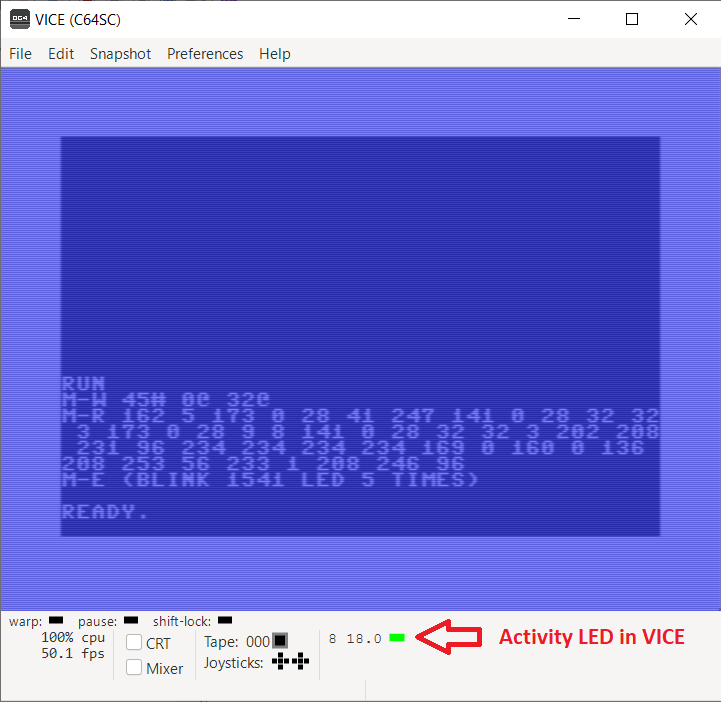
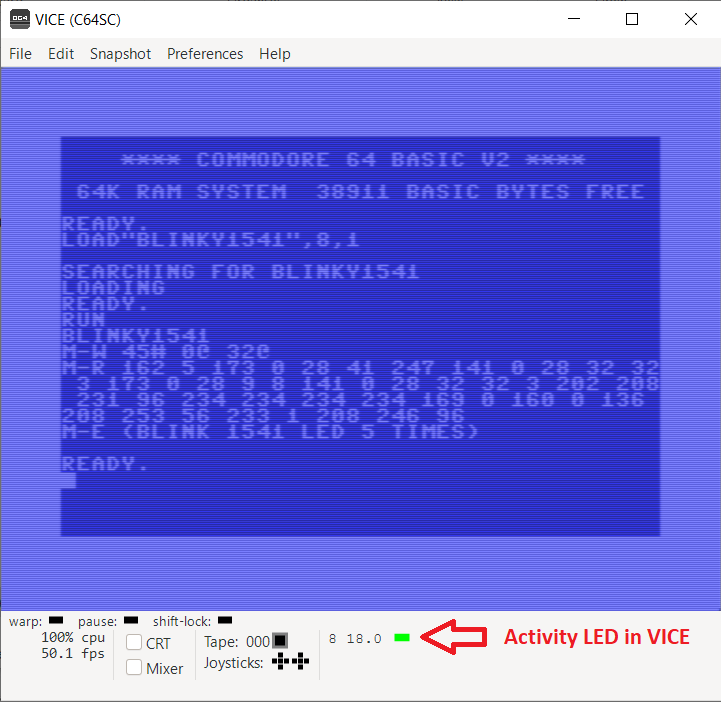
added d64

diff --git a/blinky1541/readme.md b/blinky1541/readme.md
@@ -12,7 +12,8 @@ The Blinky program blinks an LED connected to the CPU.
 
 Surely the Commodore 64 falls into the first category (`10 PRINT "HELLO, WORLD!"`).
 For sure. However, in this article, we are going to program the _Commodore 1541 disk drive_. 
-It has a 6502, RAM, 6522 VIAs (general purpose I/O chips) and even an LED connected to a VIA. We are going to blink that LED.
+It has a 6502, RAM, two 6522 VIAs (general purpose I/O chips) and even 
+an LED connected to one of the VIAs. We are going to blink that LED.
 
 
 ## Blinky program
@@ -23,22 +24,29 @@ The next section is about how to get that program on the 1541 and run it there.
 
 ### LED control
 
-We want to write a Blinky for the 1541 disk drive.
-We need to know _how to control the activity LED_.
+For Blinky, we need to know _how to control the activity LED_ of the 1541 drive.
 
 On Zimmers we find the 
 [schematics of the 1541-ii](https://www.zimmers.net/anonftp/pub/cbm/schematics/drives/new/1541/1541-II.340503.gif). 
-Here is an extract.
+Here is an excerpt.
 
 ![LED connection](schematics-actled.png)
 
 - On the 1541-ii the activity LED is _green_ (`grun`) and the power LED is _red_ (`rot`), 
   which is the reverse of the original 1541.
 - The green LED is connected with its anode to 5V, so it is _low active_.
-- The cathode is connected to port `PB3` of the VIA 6522 (U8).
+- The cathode is connected to port `PB3` of the VIA 2 (U8).
 
-Also on Zimmers we find the [memory map](https://www.zimmers.net/anonftp/pub/cbm/maps/C1541ram.txt) of the disk drive.
-Here is an extract
+At first, I was a bit puzzled why _two_ VIAs are needed, but I was underestimating the I/O needed:
+reading and writing with the magnetic head, controlling the stepper motor for the head,
+enabling the spindle (main disk motor), controlling the activity LED, sensing the 
+write protect tab, configuring the drive address (8, 9, 10, 11), and writing and reading 
+all IEC lines.
+
+We now know e need PB3 on VIA 2, what does that mean for the software side (addresses).
+Also on Zimmers we find the 
+[memory map](https://www.zimmers.net/anonftp/pub/cbm/maps/C1541ram.txt) of the disk drive.
+Here is an excerpt.
 
 ```
 VIA 2: 6522, port for motor and read/write head control
@@ -65,8 +73,9 @@ $1C03	CA, data direction port A
 - At address $1C00 we find the `control port B`, i.e. the value for the pins of port B.
 - The table confirms that the `ACT - LED` is PB3.
 
-> Assuming that the initialization of the drive sets the data direction register such that PB3 is output,
-> the only thing our Blinky program has to do is _clear_ bit 3 to enable the activity LED or _set_ bit 3 to disable the LED.
+> **Conclusion** Assuming that the initialization of the drive sets the data direction 
+> register such that PB3 is _output_, the only thing our Blinky program has to do 
+> is _clear_ bit 3 to enable the activity LED, or _set_ bit 3 to disable the LED.
 
 
 ### Program location 
@@ -95,16 +104,17 @@ we find some other interesting addresses:
 - More specificaslly, we see that the command buffer is $29 or 42 bytes.
 - Pages 3, 4, 5, 6, and 7 ar sector buffers.
 
-> We will use page 3 (Buffer 0) to store our program.
+> **Conclusion**  We will use page 3 (buffer 0, 0300 and up) to store the Blinky program.
 
 
 ### The code
 
-Now that we know we need to manipulate bit 3 in 1c00, and 
-we decided the store our program in page 3 (0300), we are ready to 
-write our Blinky program.
+Now that we know bit 3 in 1c00 controls the LED, and 
+we decided the store our program in page 3 (0300), 
+we are ready to write our Blinky program.
 
-We hand assemble using Maaswerk's [6502 instructions](https://www.masswerk.at/6502/6502_instruction_set.html).
+We hand assemble using Maaswerk's 
+[6502 instructions](https://www.masswerk.at/6502/6502_instruction_set.html).
 
 ```
 0300 | 162,5     | ldx #$5
@@ -133,10 +143,11 @@ We hand assemble using Maaswerk's [6502 instructions](https://www.masswerk.at/65
 032c | 96        | rts
 ```
 
-- At 0320 we have a wait routine. It keeps register X unmodified.
-- The wait takes about 0.33 seconds.
+- At 0320 we have a wait routine. It leaves register X unmodified.
+ The wait takes about 0.33 seconds.
 - The main routine starts at 0300.
-- Register X is used to loop 5 times on/off. it is set st 0300 and decremented at 0318 and looped at 0319.
+- Register X is used to iterate 5 times an on/off cycle. 
+  X is initialized at 0300, decremented at 0318 and looped at 0319.
 - At 0302-030a the activity LED is switched on (by clearing bit 3 of 1c00) for 0.33s.
 - At 030d-0315 the activity LED is switched off (by setting bit 3 of 1c00) for 0.33s.
 
@@ -144,7 +155,7 @@ We hand assemble using Maaswerk's [6502 instructions](https://www.masswerk.at/65
 ## Upload and execute
 
 With our first task completed (writing the Blinky program) this section
-focusses on how to get the program on the 1541 and run it there.
+focusses on how to load the program onto the 1541 and run it there.
 We do that via the command channel.
 
 
@@ -153,11 +164,13 @@ We do that via the command channel.
 Recall that we can _send commands_ to a 1541.
 We do that by opening a byte pipe (file handle), any "slot" will do, 
 in the example below we picked `1`.
-The file is on a specific device, below `8` for the disk drive.
-Commodore drives have one channel reserved for commands: `15`.
+The file is on a specific device, below we use `8` the default disk drive.
+Commodore disk drives have one channel reserved for commands: `15`.
 
 In the example we send the command `S` to delete ("scratch") a file.
-It has as argument `HELLO` (the filename). First we create and save that file.
+It has as argument `HELLO`, the name of the file to delete. 
+
+In the example below, we first create and save a file `HELLO` and then we delete it.
 
 ```basic
 10 PRINT "HELLO, WORLD!"
@@ -185,7 +198,8 @@ CLOSE 1
 
 It is also possible to _receive feedback_ from the drive.
 We use either `INPUT#` or `GET#`.
-Typically we get back the drive _status_.
+Typically we get back the drive _status_: the error number, error message,
+and the track and sector number.
 
 ```basic
 10 OPEN 1,8,15
@@ -200,7 +214,7 @@ RUN
 
 The above example scratches the file `HELLO` and then checks 
 for success (`FILES SCRATCHED 1`).
-It is good to realize that the `INPUT#` function is high-level.
+We must realize that the `INPUT#` function is high-level.
 It parses the bytes from the disk, using `,` as field separator, 
 character 13 (CR) as line separator, and even parses integers 
 (e.g. `"00"` becomes `0`). 
@@ -222,7 +236,7 @@ RUN
 
 Having said that, `GET#1,B$` has one flaw. If the byte being read is 0, `B$` is `""`
 instead of `CHR$(0)`. The usual work around is `30 GET#1,B$:B=0:IF B$<>"" THEN B=ASC(B$)` or the 
-slightly faster (without filling the string heap) concatenation:
+slightly faster (without filling the string heap) concatenation method:
 
 ```basic
 30 GET#1,B$:B=ASC(B$+CHR$(0))
@@ -233,9 +247,13 @@ slightly faster (without filling the string heap) concatenation:
 
 Next to the high level disk commands (`SAVE` and `LOAD`) and the advanced
 commands (e.g. `S` for scratch, `N` for new (format), `R` for rename), there
-are Programmer's commands. We will investigate three of them write (`M-W`),
-read (`M-R`) and execute (`M-E`). At first they sound complex, but they are 
-not. However, there are many small issues that make them hard to master.
+are Programmer's commands. We will investigate three of them: write (`M-W`),
+read (`M-R`), and execute (`M-E`). At first they sound complex, but they are 
+not. However, there are many small issues that make them hard to master,
+we discuss those later.
+
+> This program is presented in lower case to make copy and paste in VICE easier.
+> It is also available as `DISK WRITE/READ` on [`blinky1541.d64`](blinky1541.d64).
 
 ```basic
 100 print "disk write/read"
@@ -264,11 +282,9 @@ not. However, there are many small issues that make them hard to master.
 530 if en<10 then print "ok"
 540 return
 ```
-(this program is presented in lower case to make copy and paste in VICE easier).
 
-
-The 1xx section is the start, 2xx the write to memory, 3xx the read 
-from memory, the 4xx is the stop section, and 5xx is error subroutine.
+The 1xx lines form the start section, 2xx the write to memory, 3xx the read 
+from memory, the 4xx is the stop section, and 5xx is an error checking subroutine.
 In more detail:
 
 - 110 variable `A$` is two bytes, first byte is 0, second byte is 3, the 
@@ -280,20 +296,21 @@ In more detail:
   It contains 4 characters 65..68, or A, B, C, D.
 - Line 210 actually writes those bytes to the drive RAM.
   `M-W` is the command, next two bytes form the start address 
-  (0300 or the first buffer). This is followed by the number of bytes that 
-  will be written; and finally come the bytes.
-- Line 220 is error feedback.
+  (0300 or the first buffer), where we use the prepared `a$`. 
+  This is followed by the number of bytes that will be written; 
+  and finally come the data bytes to be written (`w$`).
+- Line 220 is progress feedback (with error checking).
 - Line 300 sends the memory read command to the drive.
   The `M-R` is alsof followed by the target address 
-  (again 0300, where we have just written `W$`) and 
+  (again 0300, where we have just written `w$`) and 
   also the number of bytes we want to read. 
-  Here we use `L=16`, so we read 16 bytes, but we wrote only 4.
-- Line 310 is the start of the read loop. We read one byte in `D$`,
-  and use the `""`-workaround to convert it to ASCII in variable `D`.
-- Line 320 breaks the loop if we are at end-of-file (`ST=64`).
-- Line 330 builds a string (`R1$`) of read ASCII values, 
-  lines 340 and 350 build a string (`R2$`) of read characters.
-- Line 360 is error feedback.
+  Here we use `l=16`, so we read 16 bytes, although we only wrote 4 bytes.
+- Line 310 is the start of the read loop. We read one byte in `d$`,
+  and use the concatenation-workaround to convert it to ASCII in variable `d`.
+- Line 320 breaks the loop if we are at end-of-file (`st=64`).
+- Line 330 builds a string (`r1$`) of read ASCII values, 
+  lines 340 and 350 build a string (`r2$`) of read characters, replacing unprintable ones with a `.`.
+- Line 360 is progress feedback (with error checking).
 - Line 370 prints the read bytes in the two forms.
 - Lines 400 and 410 close the file and end the program.
 
@@ -601,20 +618,25 @@ explains the behavior of end-of-file in BASIC is different:
 
 The program below demonstrates the normal behavior - a `repeat-until` instead of the above `while-do`.
 
+> This program is presented in lower case to make copy and paste in VICE easier.
+> It is also available as `FILE WRITE/READ` on [`blinky1541.d64`](blinky1541.d64).
+
 ```
-100 open15,8,15
-110 print "write"
-120 open 3,8,3,"data,seq,w"
-130 print#3,"abcde";
-140 close 3
-150 print "read"
-160 open 3,8,3,"data,seq,r"
-170 get#3,d$:d=asc(d$+chr$(0))
-180 printd;:if st=0 then 170
-190 close 3
+100 print "file write/read"
+110 open15,8,15
+120 print "write"
+130 open 3,8,3,"data,seq,w"
+140 print#3,"abcde";
+150 close 3
+160 print "read"
+170 open 3,8,3,"data,seq,r"
+180 get#3,d$:d=asc(d$+chr$(0))
+190 printd;:if st=0 then 180
+200 close 3
 ```
 
 ```
+file write/read
 write
 read
  65  66  67  68  69
@@ -628,10 +650,14 @@ In this section, we take the previously written assembler program
 and use the "M-W" command to write it in a 1541 RAM buffer.
 Then we execute it.
 
-The `.` on line 32 and 44 is actually a cursor-left character.
+The `.` on lines  30, 32 and 44 is actually a cursor-left character.
+
+> This program is presented in lower case to make copy and paste in VICE easier.
+> It is also available as `BLINKY1541` on [`blinky1541.d64`](blinky1541.d64).
 
 ```basic 
-10 open 1,8,15,"i0":rem pennings 202607
+10 print "blinky1541"
+12 open 1,8,15,"i0":rem pennings 202607
 20 al=0:ah=3:a$=chr$(al)+chr$(ah):d$=""
 22 readd:ifd>=0thend$=d$+chr$(d):goto22
 30 l=len(d$):print "m-w";l;".#";